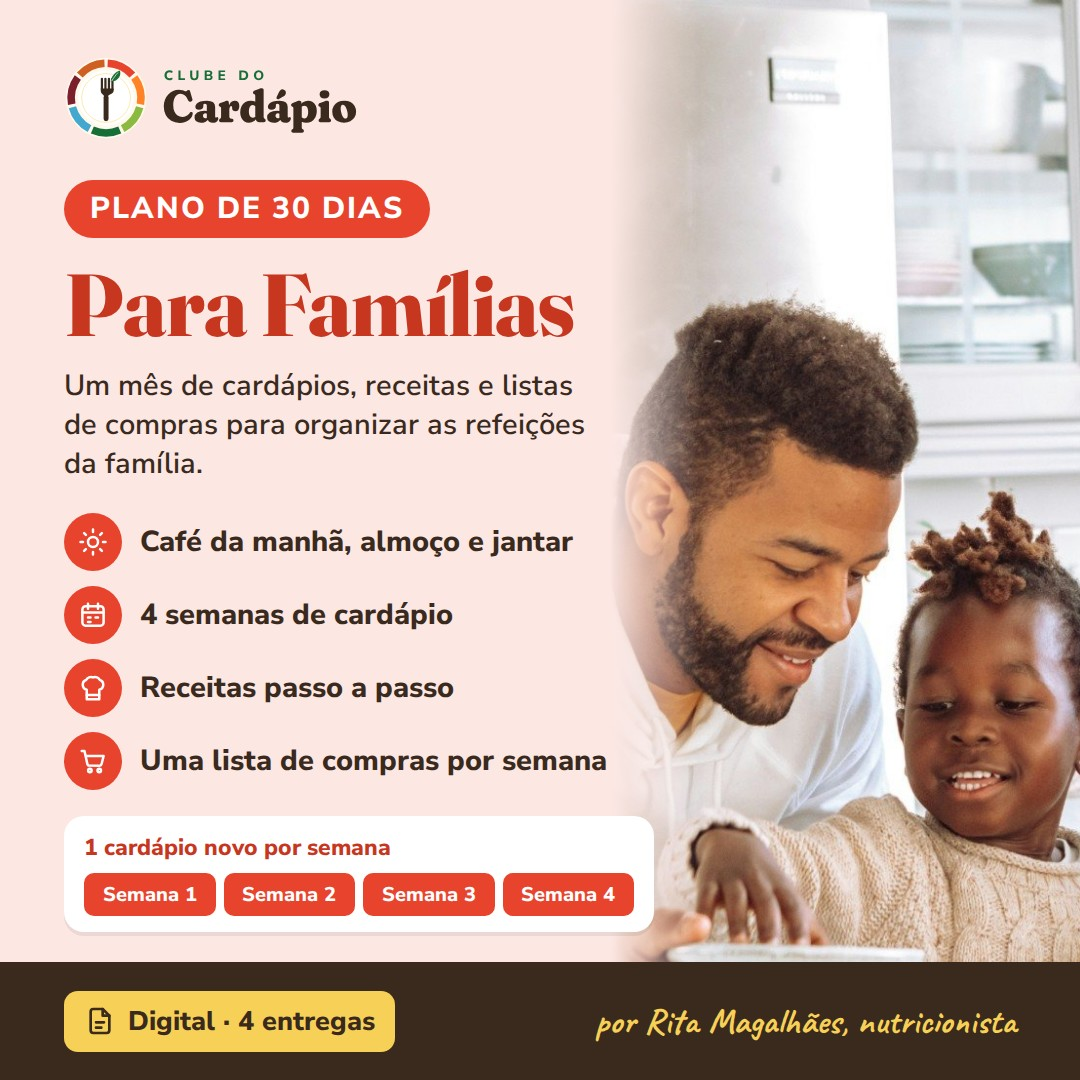
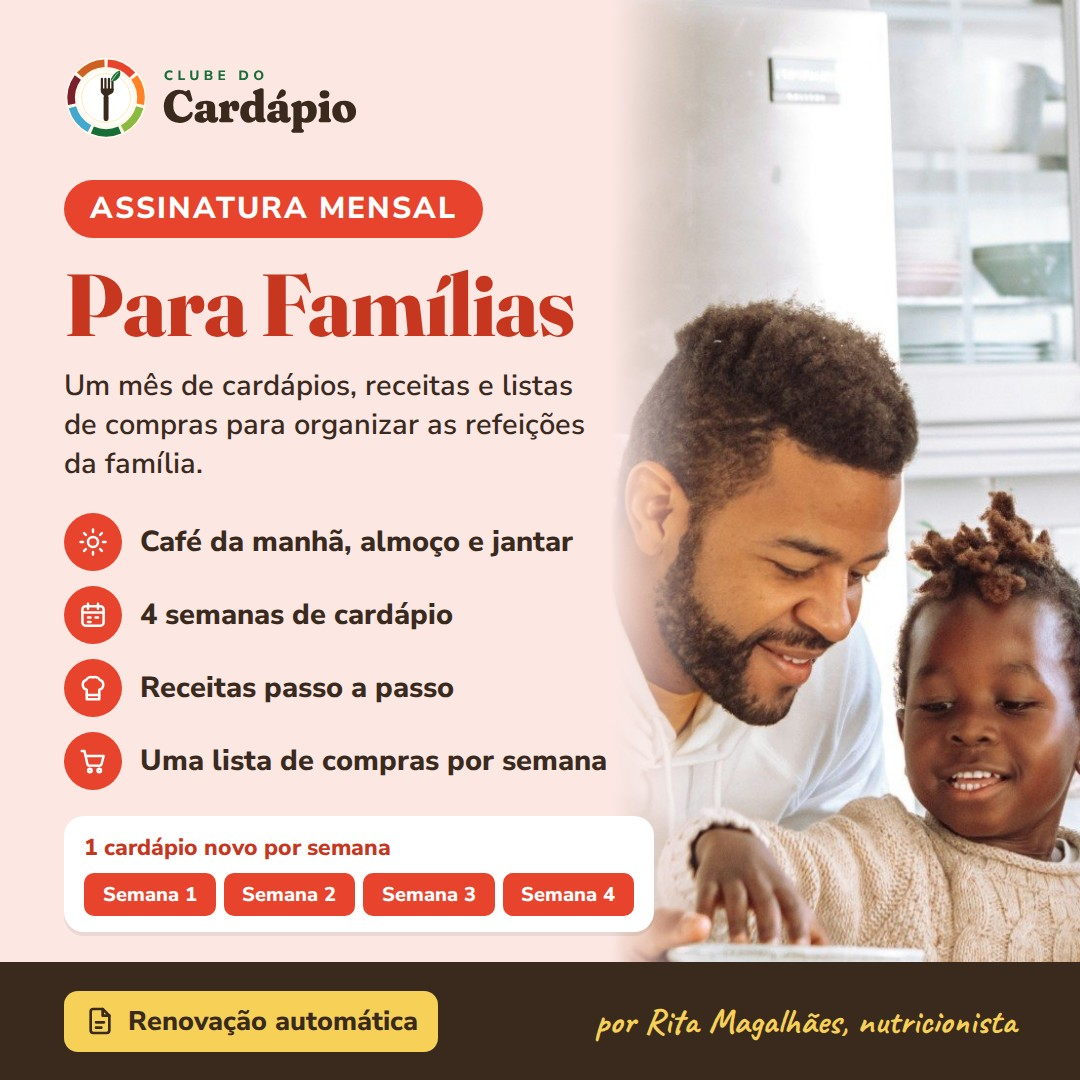
Assinatura de 30 dias com renovação automática: artes Eduzz e config
- Selo "Assinatura mensal" e "Renovação automática" nas 3 artes de 30 dias.
- js/config.js: texto de renovação preenchido.

Claude-Session: https://claude.ai/code/session_011dvyRhPNz3FX2TnzhsmVBS

Changed region(s): [[0.1222, 0.9167, 0.4278, 0.9778], [0.0611, 0.1528, 0.4583, 0.2444]]

diff --git a/docs/marca/eduzz/familias-30.html b/docs/marca/eduzz/familias-30.html
@@ -15,5 +15,5 @@ ul{list-style:none;display:grid;gap:15px} li{display:flex;align-items:center;gap
 .base .pdf{display:flex;align-items:center;gap:12px;background:#F7D157;color:#3A2A1E;font:800 27px Nunito;border-radius:14px;padding:12px 20px} .base .pdf svg{width:32px;height:32px}
 .base p{font:600 25px/1.3 Nunito} .base em{font:700 36px Caveat;color:#F7D157;font-style:normal;margin-left:auto}
 </style></head><body><div class="foto"></div><div class="col">
-<img class="logo" src="/home/user/Clubedo-cardapio/assets/brand/logo-horizontal.svg"><span class="selo">PLANO DE 30 DIAS</span><h1>Para Famílias</h1><p class="frase">Um mês de cardápios, receitas e listas de compras para organizar as refeições da família.</p><ul><li><span class="i"><svg viewBox="0 0 24 24" fill="none" stroke="currentColor" stroke-width="2" stroke-linecap="round" stroke-linejoin="round"><circle cx="12" cy="12" r="4"/><path d="M12 2v2M12 20v2M4.9 4.9l1.4 1.4M17.7 17.7l1.4 1.4M2 12h2M20 12h2M4.9 19.1l1.4-1.4M17.7 6.3l1.4-1.4"/></svg></span>Café da manhã, almoço e jantar</li><li><span class="i"><svg viewBox="0 0 24 24" fill="none" stroke="currentColor" stroke-width="2" stroke-linecap="round" stroke-linejoin="round"><rect x="3.5" y="5" width="17" height="15.5" rx="2.5"/><path d="M3.5 10h17M8 3v4M16 3v4M8 14h2M14 14h2M8 17.5h2"/></svg></span>4 semanas de cardápio</li><li><span class="i"><svg viewBox="0 0 24 24" fill="none" stroke="currentColor" stroke-width="2" stroke-linecap="round" stroke-linejoin="round"><path d="M7 17.5h10V21H7z"/><path d="M7 17.5v-4.2A4 4 0 0 1 6.5 5.6 4.5 4.5 0 0 1 12 3.5a4.5 4.5 0 0 1 5.5 2.1A4 4 0 0 1 17 13.3v4.2"/></svg></span>Receitas passo a passo</li><li><span class="i"><svg viewBox="0 0 24 24" fill="none" stroke="currentColor" stroke-width="2" stroke-linecap="round" stroke-linejoin="round"><path d="M3 4h2.2l2.3 10.5a1.5 1.5 0 0 0 1.5 1.2h8.3a1.5 1.5 0 0 0 1.5-1.1L20.5 8H6.2"/><circle cx="9.5" cy="19.5" r="1.4"/><circle cx="17" cy="19.5" r="1.4"/></svg></span>Uma lista de compras por semana</li></ul><div class="sem"><b>1 cardápio novo por semana</b><div><span>Semana 1</span><span>Semana 2</span><span>Semana 3</span><span>Semana 4</span></div></div></div>
-<div class="base"><span class="pdf"><svg viewBox="0 0 24 24" fill="none" stroke="currentColor" stroke-width="2" stroke-linecap="round" stroke-linejoin="round"><path d="M14 3H7a2 2 0 0 0-2 2v14a2 2 0 0 0 2 2h10a2 2 0 0 0 2-2V8z"/><path d="M14 3v5h5M9 13h6M9 17h4"/></svg> Digital · 4 entregas</span><em>por Rita Magalhães, nutricionista</em></div></body></html>
+<img class="logo" src="/home/user/Clubedo-cardapio/assets/brand/logo-horizontal.svg"><span class="selo">ASSINATURA MENSAL</span><h1>Para Famílias</h1><p class="frase">Um mês de cardápios, receitas e listas de compras para organizar as refeições da família.</p><ul><li><span class="i"><svg viewBox="0 0 24 24" fill="none" stroke="currentColor" stroke-width="2" stroke-linecap="round" stroke-linejoin="round"><circle cx="12" cy="12" r="4"/><path d="M12 2v2M12 20v2M4.9 4.9l1.4 1.4M17.7 17.7l1.4 1.4M2 12h2M20 12h2M4.9 19.1l1.4-1.4M17.7 6.3l1.4-1.4"/></svg></span>Café da manhã, almoço e jantar</li><li><span class="i"><svg viewBox="0 0 24 24" fill="none" stroke="currentColor" stroke-width="2" stroke-linecap="round" stroke-linejoin="round"><rect x="3.5" y="5" width="17" height="15.5" rx="2.5"/><path d="M3.5 10h17M8 3v4M16 3v4M8 14h2M14 14h2M8 17.5h2"/></svg></span>4 semanas de cardápio</li><li><span class="i"><svg viewBox="0 0 24 24" fill="none" stroke="currentColor" stroke-width="2" stroke-linecap="round" stroke-linejoin="round"><path d="M7 17.5h10V21H7z"/><path d="M7 17.5v-4.2A4 4 0 0 1 6.5 5.6 4.5 4.5 0 0 1 12 3.5a4.5 4.5 0 0 1 5.5 2.1A4 4 0 0 1 17 13.3v4.2"/></svg></span>Receitas passo a passo</li><li><span class="i"><svg viewBox="0 0 24 24" fill="none" stroke="currentColor" stroke-width="2" stroke-linecap="round" stroke-linejoin="round"><path d="M3 4h2.2l2.3 10.5a1.5 1.5 0 0 0 1.5 1.2h8.3a1.5 1.5 0 0 0 1.5-1.1L20.5 8H6.2"/><circle cx="9.5" cy="19.5" r="1.4"/><circle cx="17" cy="19.5" r="1.4"/></svg></span>Uma lista de compras por semana</li></ul><div class="sem"><b>1 cardápio novo por semana</b><div><span>Semana 1</span><span>Semana 2</span><span>Semana 3</span><span>Semana 4</span></div></div></div>
+<div class="base"><span class="pdf"><svg viewBox="0 0 24 24" fill="none" stroke="currentColor" stroke-width="2" stroke-linecap="round" stroke-linejoin="round"><path d="M14 3H7a2 2 0 0 0-2 2v14a2 2 0 0 0 2 2h10a2 2 0 0 0 2-2V8z"/><path d="M14 3v5h5M9 13h6M9 17h4"/></svg> Renovação automática</span><em>por Rita Magalhães, nutricionista</em></div></body></html>

diff --git a/docs/marca/eduzz/voce-30.html b/docs/marca/eduzz/voce-30.html
@@ -15,5 +15,5 @@ ul{list-style:none;display:grid;gap:15px} li{display:flex;align-items:center;gap
 .base .pdf{display:flex;align-items:center;gap:12px;background:#F7D157;color:#3A2A1E;font:800 27px Nunito;border-radius:14px;padding:12px 20px} .base .pdf svg{width:32px;height:32px}
 .base p{font:600 25px/1.3 Nunito} .base em{font:700 36px Caveat;color:#F7D157;font-style:normal;margin-left:auto}
 </style></head><body><div class="foto"></div><div class="col">
-<img class="logo" src="/home/user/Clubedo-cardapio/assets/brand/logo-horizontal.svg"><span class="selo">PLANO DE 30 DIAS</span><h1>Para Você</h1><p class="frase">Um mês de planejamento para quem cozinha para 1 pessoa e tem a rotina corrida.</p><ul><li><span class="i"><svg viewBox="0 0 24 24" fill="none" stroke="currentColor" stroke-width="2" stroke-linecap="round" stroke-linejoin="round"><circle cx="12" cy="12" r="4"/><path d="M12 2v2M12 20v2M4.9 4.9l1.4 1.4M17.7 17.7l1.4 1.4M2 12h2M20 12h2M4.9 19.1l1.4-1.4M17.7 6.3l1.4-1.4"/></svg></span>Café da manhã, almoço e jantar</li><li><span class="i"><svg viewBox="0 0 24 24" fill="none" stroke="currentColor" stroke-width="2" stroke-linecap="round" stroke-linejoin="round"><rect x="3.5" y="5" width="17" height="15.5" rx="2.5"/><path d="M3.5 10h17M8 3v4M16 3v4M8 14h2M14 14h2M8 17.5h2"/></svg></span>4 semanas de cardápio</li><li><span class="i"><svg viewBox="0 0 24 24" fill="none" stroke="currentColor" stroke-width="2" stroke-linecap="round" stroke-linejoin="round"><path d="M7 17.5h10V21H7z"/><path d="M7 17.5v-4.2A4 4 0 0 1 6.5 5.6 4.5 4.5 0 0 1 12 3.5a4.5 4.5 0 0 1 5.5 2.1A4 4 0 0 1 17 13.3v4.2"/></svg></span>Receitas passo a passo</li><li><span class="i"><svg viewBox="0 0 24 24" fill="none" stroke="currentColor" stroke-width="2" stroke-linecap="round" stroke-linejoin="round"><path d="M3 4h2.2l2.3 10.5a1.5 1.5 0 0 0 1.5 1.2h8.3a1.5 1.5 0 0 0 1.5-1.1L20.5 8H6.2"/><circle cx="9.5" cy="19.5" r="1.4"/><circle cx="17" cy="19.5" r="1.4"/></svg></span>Uma lista de compras por semana</li></ul><div class="sem"><b>1 cardápio novo por semana</b><div><span>Semana 1</span><span>Semana 2</span><span>Semana 3</span><span>Semana 4</span></div></div></div>
-<div class="base"><span class="pdf"><svg viewBox="0 0 24 24" fill="none" stroke="currentColor" stroke-width="2" stroke-linecap="round" stroke-linejoin="round"><path d="M14 3H7a2 2 0 0 0-2 2v14a2 2 0 0 0 2 2h10a2 2 0 0 0 2-2V8z"/><path d="M14 3v5h5M9 13h6M9 17h4"/></svg> Digital · 4 entregas</span><em>por Rita Magalhães, nutricionista</em></div></body></html>
+<img class="logo" src="/home/user/Clubedo-cardapio/assets/brand/logo-horizontal.svg"><span class="selo">ASSINATURA MENSAL</span><h1>Para Você</h1><p class="frase">Um mês de planejamento para quem cozinha para 1 pessoa e tem a rotina corrida.</p><ul><li><span class="i"><svg viewBox="0 0 24 24" fill="none" stroke="currentColor" stroke-width="2" stroke-linecap="round" stroke-linejoin="round"><circle cx="12" cy="12" r="4"/><path d="M12 2v2M12 20v2M4.9 4.9l1.4 1.4M17.7 17.7l1.4 1.4M2 12h2M20 12h2M4.9 19.1l1.4-1.4M17.7 6.3l1.4-1.4"/></svg></span>Café da manhã, almoço e jantar</li><li><span class="i"><svg viewBox="0 0 24 24" fill="none" stroke="currentColor" stroke-width="2" stroke-linecap="round" stroke-linejoin="round"><rect x="3.5" y="5" width="17" height="15.5" rx="2.5"/><path d="M3.5 10h17M8 3v4M16 3v4M8 14h2M14 14h2M8 17.5h2"/></svg></span>4 semanas de cardápio</li><li><span class="i"><svg viewBox="0 0 24 24" fill="none" stroke="currentColor" stroke-width="2" stroke-linecap="round" stroke-linejoin="round"><path d="M7 17.5h10V21H7z"/><path d="M7 17.5v-4.2A4 4 0 0 1 6.5 5.6 4.5 4.5 0 0 1 12 3.5a4.5 4.5 0 0 1 5.5 2.1A4 4 0 0 1 17 13.3v4.2"/></svg></span>Receitas passo a passo</li><li><span class="i"><svg viewBox="0 0 24 24" fill="none" stroke="currentColor" stroke-width="2" stroke-linecap="round" stroke-linejoin="round"><path d="M3 4h2.2l2.3 10.5a1.5 1.5 0 0 0 1.5 1.2h8.3a1.5 1.5 0 0 0 1.5-1.1L20.5 8H6.2"/><circle cx="9.5" cy="19.5" r="1.4"/><circle cx="17" cy="19.5" r="1.4"/></svg></span>Uma lista de compras por semana</li></ul><div class="sem"><b>1 cardápio novo por semana</b><div><span>Semana 1</span><span>Semana 2</span><span>Semana 3</span><span>Semana 4</span></div></div></div>
+<div class="base"><span class="pdf"><svg viewBox="0 0 24 24" fill="none" stroke="currentColor" stroke-width="2" stroke-linecap="round" stroke-linejoin="round"><path d="M14 3H7a2 2 0 0 0-2 2v14a2 2 0 0 0 2 2h10a2 2 0 0 0 2-2V8z"/><path d="M14 3v5h5M9 13h6M9 17h4"/></svg> Renovação automática</span><em>por Rita Magalhães, nutricionista</em></div></body></html>

diff --git a/docs/marca/eduzz/idosos-30.html b/docs/marca/eduzz/idosos-30.html
@@ -15,5 +15,5 @@ ul{list-style:none;display:grid;gap:15px} li{display:flex;align-items:center;gap
 .base .pdf{display:flex;align-items:center;gap:12px;background:#F7D157;color:#3A2A1E;font:800 27px Nunito;border-radius:14px;padding:12px 20px} .base .pdf svg{width:32px;height:32px}
 .base p{font:600 25px/1.3 Nunito} .base em{font:700 36px Caveat;color:#F7D157;font-style:normal;margin-left:auto}
 </style></head><body><div class="foto"></div><div class="col">
-<img class="logo" src="/home/user/Clubedo-cardapio/assets/brand/logo-horizontal.svg"><span class="selo">PLANO DE 30 DIAS</span><h1>Para Idosos</h1><p class="frase">Um mês de refeições planejadas, com um cardápio novo a cada semana.</p><ul><li><span class="i"><svg viewBox="0 0 24 24" fill="none" stroke="currentColor" stroke-width="2" stroke-linecap="round" stroke-linejoin="round"><circle cx="12" cy="12" r="4"/><path d="M12 2v2M12 20v2M4.9 4.9l1.4 1.4M17.7 17.7l1.4 1.4M2 12h2M20 12h2M4.9 19.1l1.4-1.4M17.7 6.3l1.4-1.4"/></svg></span>Café da manhã, almoço e jantar</li><li><span class="i"><svg viewBox="0 0 24 24" fill="none" stroke="currentColor" stroke-width="2" stroke-linecap="round" stroke-linejoin="round"><rect x="3.5" y="5" width="17" height="15.5" rx="2.5"/><path d="M3.5 10h17M8 3v4M16 3v4M8 14h2M14 14h2M8 17.5h2"/></svg></span>4 semanas de cardápio</li><li><span class="i"><svg viewBox="0 0 24 24" fill="none" stroke="currentColor" stroke-width="2" stroke-linecap="round" stroke-linejoin="round"><path d="M7 17.5h10V21H7z"/><path d="M7 17.5v-4.2A4 4 0 0 1 6.5 5.6 4.5 4.5 0 0 1 12 3.5a4.5 4.5 0 0 1 5.5 2.1A4 4 0 0 1 17 13.3v4.2"/></svg></span>Receitas passo a passo</li><li><span class="i"><svg viewBox="0 0 24 24" fill="none" stroke="currentColor" stroke-width="2" stroke-linecap="round" stroke-linejoin="round"><path d="M3 4h2.2l2.3 10.5a1.5 1.5 0 0 0 1.5 1.2h8.3a1.5 1.5 0 0 0 1.5-1.1L20.5 8H6.2"/><circle cx="9.5" cy="19.5" r="1.4"/><circle cx="17" cy="19.5" r="1.4"/></svg></span>Uma lista de compras por semana</li></ul><div class="sem"><b>1 cardápio novo por semana</b><div><span>Semana 1</span><span>Semana 2</span><span>Semana 3</span><span>Semana 4</span></div></div></div>
-<div class="base"><span class="pdf"><svg viewBox="0 0 24 24" fill="none" stroke="currentColor" stroke-width="2" stroke-linecap="round" stroke-linejoin="round"><path d="M14 3H7a2 2 0 0 0-2 2v14a2 2 0 0 0 2 2h10a2 2 0 0 0 2-2V8z"/><path d="M14 3v5h5M9 13h6M9 17h4"/></svg> Digital · 4 entregas</span><em>por Rita Magalhães, nutricionista</em></div></body></html>
+<img class="logo" src="/home/user/Clubedo-cardapio/assets/brand/logo-horizontal.svg"><span class="selo">ASSINATURA MENSAL</span><h1>Para Idosos</h1><p class="frase">Um mês de refeições planejadas, com um cardápio novo a cada semana.</p><ul><li><span class="i"><svg viewBox="0 0 24 24" fill="none" stroke="currentColor" stroke-width="2" stroke-linecap="round" stroke-linejoin="round"><circle cx="12" cy="12" r="4"/><path d="M12 2v2M12 20v2M4.9 4.9l1.4 1.4M17.7 17.7l1.4 1.4M2 12h2M20 12h2M4.9 19.1l1.4-1.4M17.7 6.3l1.4-1.4"/></svg></span>Café da manhã, almoço e jantar</li><li><span class="i"><svg viewBox="0 0 24 24" fill="none" stroke="currentColor" stroke-width="2" stroke-linecap="round" stroke-linejoin="round"><rect x="3.5" y="5" width="17" height="15.5" rx="2.5"/><path d="M3.5 10h17M8 3v4M16 3v4M8 14h2M14 14h2M8 17.5h2"/></svg></span>4 semanas de cardápio</li><li><span class="i"><svg viewBox="0 0 24 24" fill="none" stroke="currentColor" stroke-width="2" stroke-linecap="round" stroke-linejoin="round"><path d="M7 17.5h10V21H7z"/><path d="M7 17.5v-4.2A4 4 0 0 1 6.5 5.6 4.5 4.5 0 0 1 12 3.5a4.5 4.5 0 0 1 5.5 2.1A4 4 0 0 1 17 13.3v4.2"/></svg></span>Receitas passo a passo</li><li><span class="i"><svg viewBox="0 0 24 24" fill="none" stroke="currentColor" stroke-width="2" stroke-linecap="round" stroke-linejoin="round"><path d="M3 4h2.2l2.3 10.5a1.5 1.5 0 0 0 1.5 1.2h8.3a1.5 1.5 0 0 0 1.5-1.1L20.5 8H6.2"/><circle cx="9.5" cy="19.5" r="1.4"/><circle cx="17" cy="19.5" r="1.4"/></svg></span>Uma lista de compras por semana</li></ul><div class="sem"><b>1 cardápio novo por semana</b><div><span>Semana 1</span><span>Semana 2</span><span>Semana 3</span><span>Semana 4</span></div></div></div>
+<div class="base"><span class="pdf"><svg viewBox="0 0 24 24" fill="none" stroke="currentColor" stroke-width="2" stroke-linecap="round" stroke-linejoin="round"><path d="M14 3H7a2 2 0 0 0-2 2v14a2 2 0 0 0 2 2h10a2 2 0 0 0 2-2V8z"/><path d="M14 3v5h5M9 13h6M9 17h4"/></svg> Renovação automática</span><em>por Rita Magalhães, nutricionista</em></div></body></html>

diff --git a/js/config.js b/js/config.js
@@ -47,7 +47,7 @@ window.CC_CONFIG = {
 
   /* ---- Condições da assinatura de 30 dias (FAQ e oferta) ---- */
   assinatura: {
-    renovacao: "",             // ex.: "Renova automaticamente a cada 30 dias."
+    renovacao: "A assinatura renova automaticamente a cada 30 dias, com mais 4 semanas de cardápio.",
     cancelamento: "",          // ex.: "Cancele quando quiser pela área do cliente da Eduzz."
   },
 
